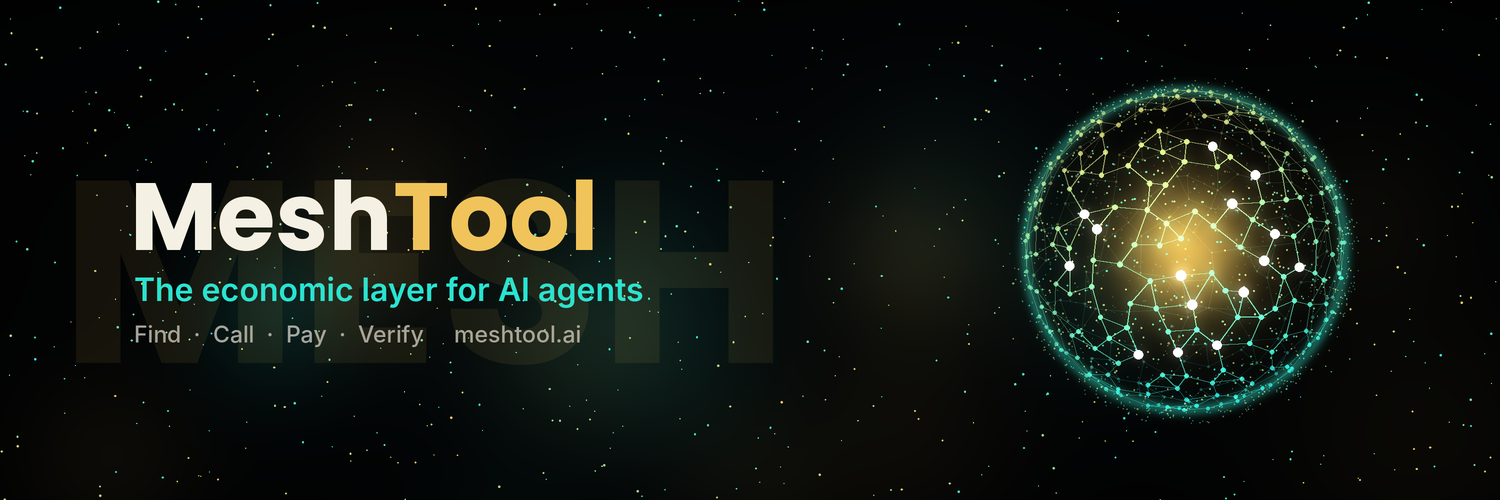
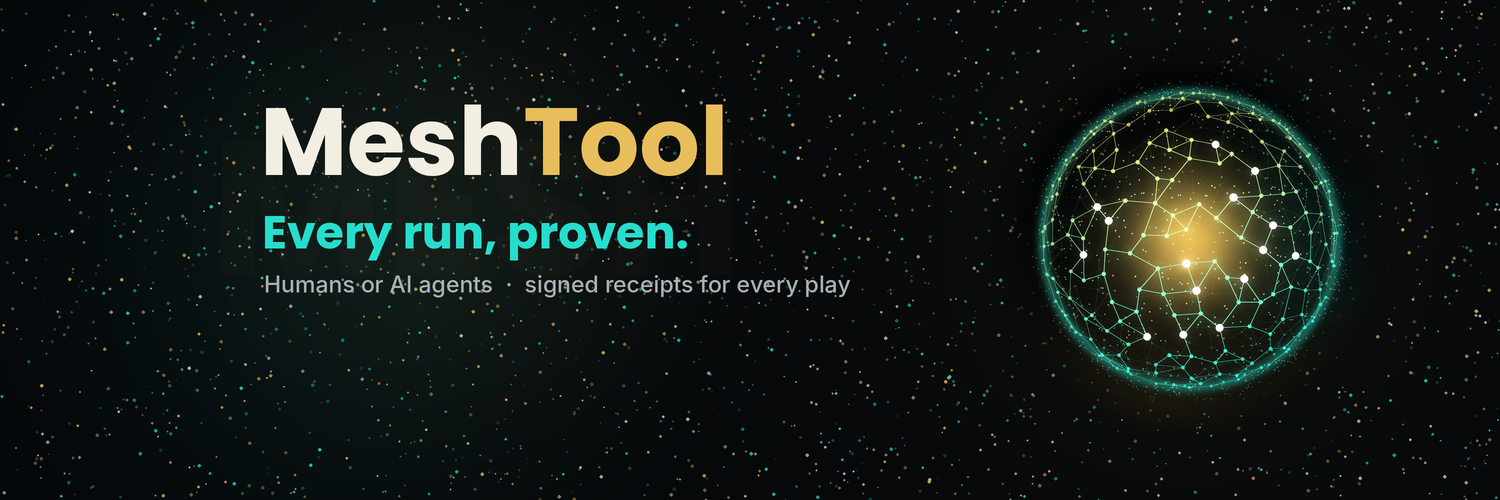
Slogan 'Every run, proven.' + rename to Mesh City: Proof Run
New headers and YouTube banner carry the slogan. README, in-game HUD title
and project name drop 'Gonzo Run' (out with the old).

Claude-Session: https://claude.ai/code/session_01MgNxVVeZvESweNXSSkawdT

Changed region(s): [[0.0613, 0.21, 0.5827, 0.75], [0.6747, 0.15, 0.92, 0.84]]

diff --git a/README.md b/README.md
@@ -1,6 +1,6 @@
-# Mesh City: Gonzo Run
+# Mesh City: Proof Run
 
-A fever-dream drive down the repo strip. Every public Meshtool and RightOnPar repo is a neon tower.
+**Every run, proven.** A drive down the repo strip where every public Meshtool and RightOnPar repo is a neon tower, and every run is headed for a signed receipt anyone can check, whether a human or an AI agent played it (Proof of Play).
 
 - **Tower height**: repo size.
 - **Glow**: how recently the repo was pushed. Hot means fresh.
@@ -22,4 +22,4 @@ On `main`, the web build ships to itch.io via butler. That step needs the `BUTLE
 ## Dev
 `godot --path . -- --demo` runs attract mode: an autopilot drives to every orb, which serves as a smoke test of the full run.
 
-Art and writing are original, made in an ink-splatter, gonzo-journalism spirit.
+Art and writing are original.

diff --git a/brand/README.md b/brand/README.md
@@ -2,6 +2,10 @@
 
 One face, one header, sized per platform. Source of truth for every Meshtool profile.
 
+Slogan: **Every run, proven.** Second line: *Humans or AI agents · signed receipts for every play.*
+
+Standard bio: Every run, proven. The trust layer for games and AI agents: signed receipts for every play, human or AI. Play Mesh City: meshtool.itch.io
+
 | File | Use |
 |---|---|
 | `avatar.png` (1000×1000) | Profile picture everywhere (itch, X, YouTube, Mastodon, Bluesky, GitHub, Discord) |
